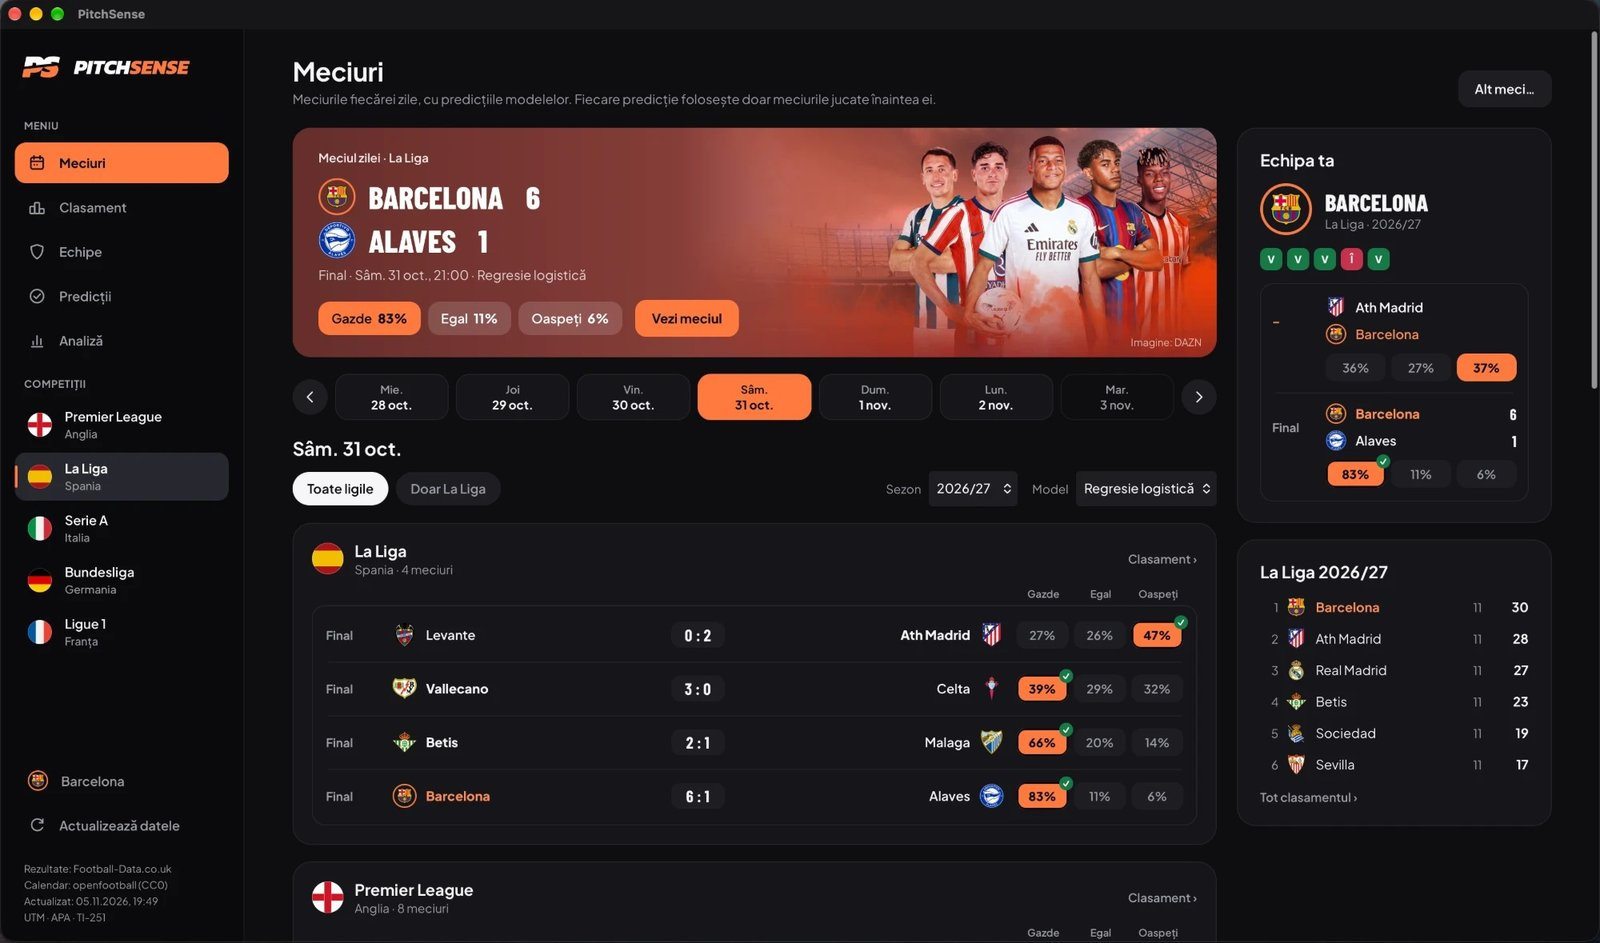
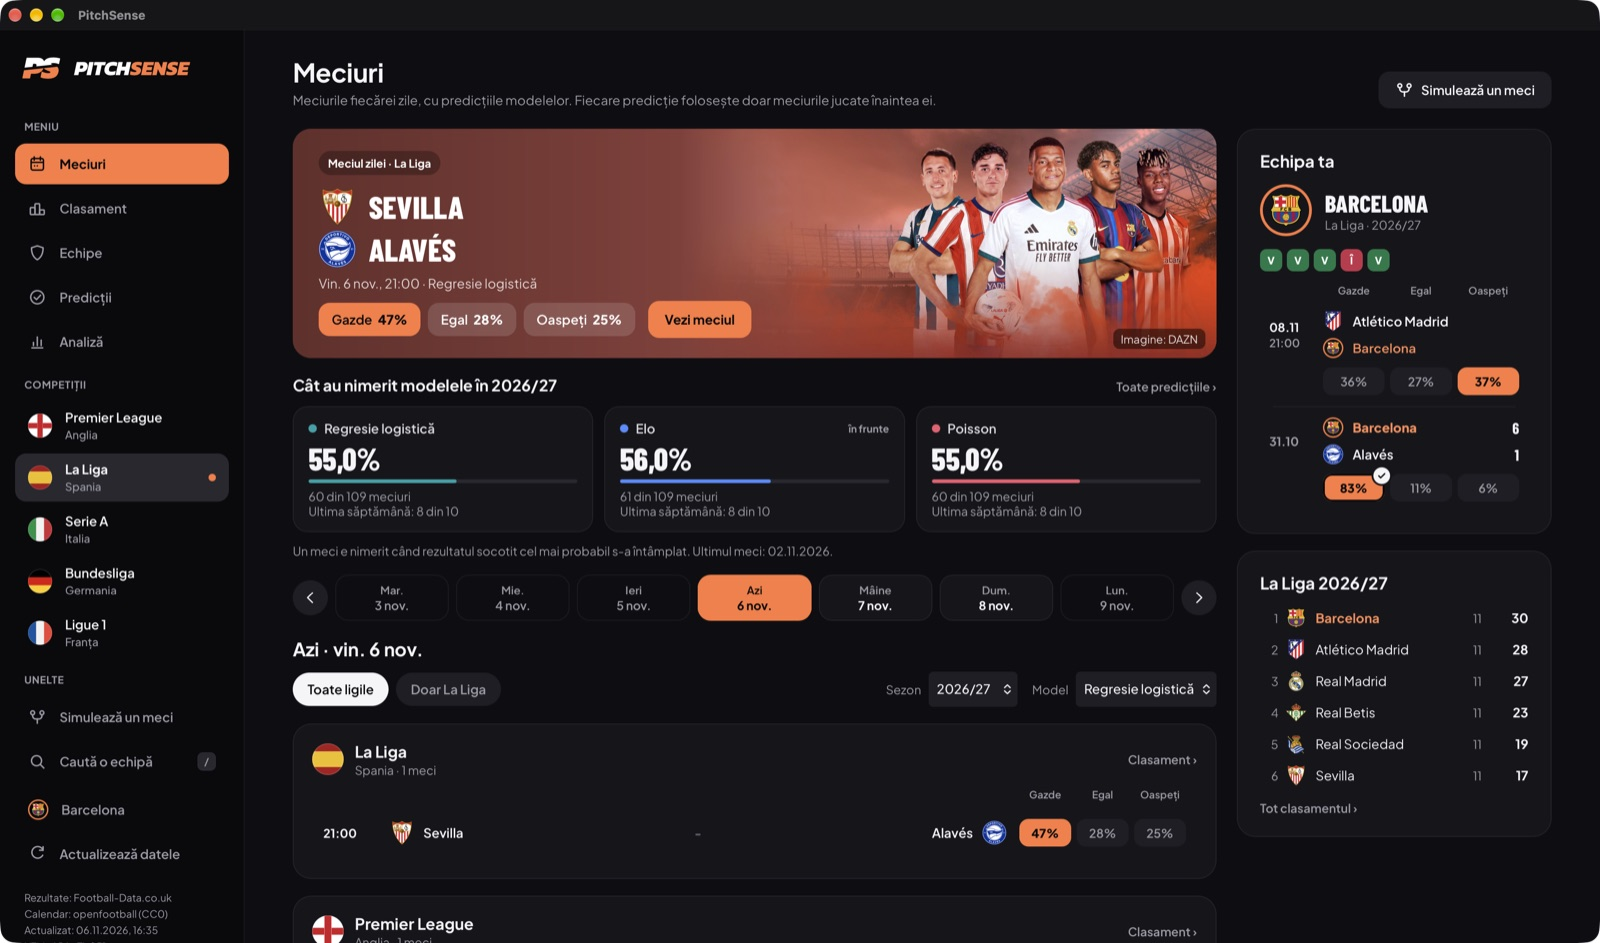
Release 0.7.0 recorded
- README: the version badge, new captures of every screen from the 0.7.0
  package, captions for the projection, the weeks and the diagrams
- docs/architecture.md section 21.5: the packages and their checks

diff --git a/README.md b/README.md
@@ -10,7 +10,7 @@
 </p>
 
 <p align="center">
-  <a href="https://github.com/kirillthehighest/Pitch-Sense/releases/latest"><img alt="Versiunea 0.6.1" src="https://img.shields.io/badge/versiunea-0.6.1-E8622A"></a>
+  <a href="https://github.com/kirillthehighest/Pitch-Sense/releases/latest"><img alt="Versiunea 0.7.0" src="https://img.shields.io/badge/versiunea-0.7.0-E8622A"></a>
   <img alt="macOS și Windows" src="https://img.shields.io/badge/macOS%20%7C%20Windows-desktop-555">
   <img alt="Python 3.14" src="https://img.shields.io/badge/Python-3.14-3776AB?logo=python&logoColor=white">
   <img alt="React și Tauri" src="https://img.shields.io/badge/React%20%2B%20Tauri-interfa%C8%9Ba-24C8DB?logo=tauri&logoColor=white">
@@ -63,16 +63,16 @@ Când regresia logistică dă peste 65% unui rezultat, are dreptate în **76,0%*
 
 <table>
   <tr>
-    <td width="50%"><img src="docs/images/pagina-meci.jpg" alt="Pagina unui meci"><br><sub><b>Pagina unui meci:</b> ce spune fiecare model și cum vin echipele</sub></td>
-    <td width="50%"><img src="docs/images/scoruri.jpg" alt="Scorurile probabile"><br><sub><b>Scorurile probabile</b> calculate de modelul Poisson</sub></td>
+    <td width="50%"><img src="docs/images/pagina-meci.jpg" alt="Pagina unui meci"><br><sub><b>Pagina unui meci:</b> pe ce mizează fiecare model și cum vin echipele</sub></td>
+    <td width="50%"><img src="docs/images/scoruri.jpg" alt="Scorurile probabile"><br><sub><b>Scorurile probabile</b> ale modelului Poisson, cu scorul final încercuit</sub></td>
   </tr>
   <tr>
     <td><img src="docs/images/echipa.jpg" alt="Pagina unei echipe"><br><sub><b>Pagina unei echipe:</b> sezonul în cifre, forma și meciurile</sub></td>
-    <td><img src="docs/images/clasament.jpg" alt="Clasamentul"><br><sub><b>Clasamentul</b> oricărui sezon, cu forma echipelor</sub></td>
+    <td><img src="docs/images/clasament.jpg" alt="Proiecția clasamentului final"><br><sub><b>Proiecția finalului de sezon:</b> meciurile rămase jucate de 10.000 de ori</sub></td>
   </tr>
   <tr>
-    <td><img src="docs/images/predictii.jpg" alt="Predicțiile unui sezon"><br><sub><b>Predicții:</b> cât de bine a prezis un model un sezon întreg</sub></td>
-    <td><img src="docs/images/analiza.jpg" alt="Analiza modelelor"><br><sub><b>Analiză:</b> compararea modelelor, calibrarea și matricea de confuzie</sub></td>
+    <td><img src="docs/images/predictii.jpg" alt="Predicțiile unui sezon"><br><sub><b>Predicții:</b> ce a nimerit un model, săptămână cu săptămână</sub></td>
+    <td><img src="docs/images/analiza.jpg" alt="Cum funcționează algoritmii"><br><sub><b>Analiză:</b> schema fiecărui algoritm, apoi compararea modelelor</sub></td>
   </tr>
 </table>
 

diff --git a/docs/architecture.md b/docs/architecture.md
@@ -1240,6 +1240,14 @@ Rulări din 2026-11-06:
 - O a doua analiză `/impeccable critique`, după aceste schimbări, a dat 29 din 40 de puncte (de la 24). Ce a mai găsit a fost corectat în aceeași fază: un ecran nou se deschide de sus, iar focusul tastaturii trece la conținutul lui (cu legătura „Sari la conținut”); pagina unui meci trecut fără rezultat scrie „Fără rezultat”, nu „Programat”; cluburile apar cu numele lor întregi (`teamName` în `format.ts`: „Ath Madrid” devine „Atlético Madrid”, „Nott'm Forest” devine „Nottingham Forest”; datele, stemele și serverul păstrează numele scurte); propoziția modelelor spune „la limită” când favorita conduce cu mai puțin de cinci puncte; grupurile K‑Means ale sezonului trecut se văd doar în grafic, fără să schimbe sezonul celorlalte ecrane; „Înainte de o zi” pornește, în sezonul în desfășurare, cu o săptămână înaintea ultimului meci; tasta T și butonul „Azi” întorc la ziua de azi; contrastul locurilor din proiecție, textul de 10 px și rândurile prea lungi ale notelor.
 - În interfață, cu datele din 2026-10-30, la 1440 × 900 și 1024 × 700: toate ecranele, dialogurile „Simulează un meci”, „Caută o echipă” și „Scurtăturile tastaturii”, proiecția celor cinci ligi (234–300 de meciuri rămase, toate cu predicție), bilanțul modelelor și nota pentru datele vechi.
 
+### 21.5. Versiunea 0.7.0
+
+La acceptarea fazei (2026-11-06), echipa a cerut versiunea 0.7.0, publicată pe GitHub (`v0.7.0`), cu capturi noi în README:
+
+- macOS: `.dmg` de 91 MB, cu sezonul în desfășurare descărcat pe 2026-11-06; semnătura aplicației trece `codesign --verify --deep --strict`; autoverificarea serverului trece din `dist/` și din imaginea `.dmg`.
+- Windows (GitHub Actions): trec toate cele 801 de teste Python și cele 50 ale interfeței web; programul de instalare are 72 MB; autoverificarea trece în pachet și după instalare; serverul pornit de fereastra instalată are toate ligile gata la 10,5 s după deschiderea ei. Ecranele nu au putut fi privite pe mașina de construire.
+- Capturile din `docs/images/` sunt făcute din aplicația construită pentru macOS, cu datele din 2026-11-06.
+
 ## 22. Setul de date și perioadele
 
 Sursa datelor este Football-Data.co.uk: cinci ligi (Premier League, La Liga, Serie A, Bundesliga, Ligue 1), fiecare cu 20 de sezoane încheiate, 2006/07–2025/26 (36.197 de meciuri). Perioadele sunt aceleași pentru toate ligile. Sezonul în desfășurare (2026/27) este descărcat separat și nu face parte din evaluare (secțiunea 15).
